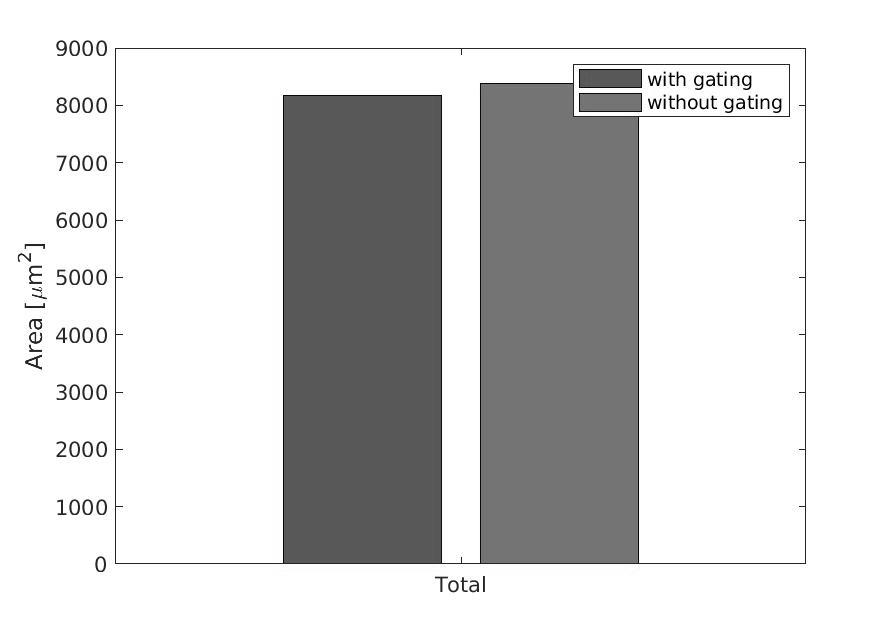
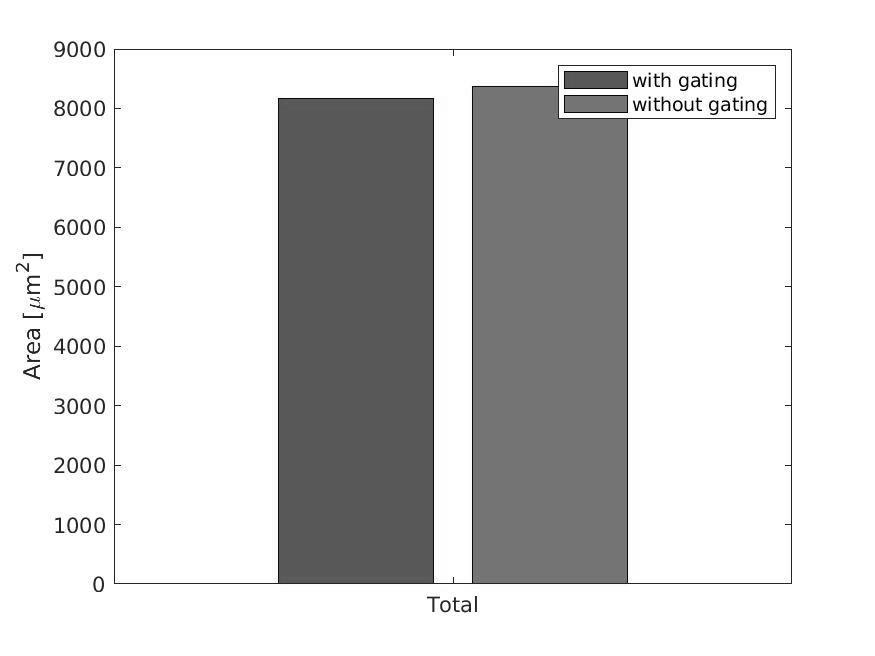
Up

diff --git a/Lab1/matlab/AnalyzeArea.m b/Lab1/matlab/AnalyzeArea.m
@@ -12,16 +12,24 @@ cat = categorical(types(1:3));
 bar(cat, [AreaGating(1:3) AreaNoGating(1:3)])
 legend("with gating", "without gating")
 ylabel("Area [\mum^2]")
-saveas(f, "AreaBar_par_DIRFORM.jpg")
-imwrite(rgb2gray(imread("AreaBar_par_DIRFORM.jpg")), "AreaBar_par_DIRFORM_gray.jpg")
+saveas(f, "./result/AreaGraphs/AreaBar_par_DIRFORM.jpg")
+imwrite(rgb2gray(imread("./result/AreaGraphs/AreaBar_par_DIRFORM.jpg")), "./result/AreaGraphs/AreaBar_par_DIRFORM_gray.jpg")
 
 f = figure;
 cat = categorical(types(5));
 bar(cat, [AreaGating(5) AreaNoGating(5)])
 legend("with gating", "without gating")
 ylabel("Area [\mum^2]")
-saveas(f, "AreaBar_tot_DIRFORM.jpg")
-imwrite(rgb2gray(imread("AreaBar_tot_DIRFORM.jpg")), "AreaBar_tot_DIRFORM_gray.jpg")
+saveas(f, "./result/AreaGraphs/AreaBar_tot_DIRFORM.jpg")
+imwrite(rgb2gray(imread("./result/AreaGraphs/AreaBar_tot_DIRFORM.jpg")), "./result/AreaGraphs/AreaBar_tot_DIRFORM_gray.jpg")
+
+f = figure;
+cat = categorical("Total design area");
+bar(cat, [AreaGating(5) 2886.6])
+legend("post-syntesis", "post-place&route")
+ylabel("Area [\mum^2]")
+saveas(f, "./result/AreaGraphs/AreaBar_comp_DIRFORM.jpg")
+imwrite(rgb2gray(imread("./result/AreaGraphs/AreaBar_comp_DIRFORM.jpg")), "./result/AreaGraphs/AreaBar_comp_DIRFORM_gray.jpg")
 
 [ AreaGating, types ] = readAreaFromSynopsys("../results/syn/synthReport/gating/firUnfoldedNC/elab_area.txt");
 AreaNoGating = readAreaFromSynopsys("../results/syn/synthReport/noGating/firUnfoldedNC/elab_area.txt");
@@ -31,8 +39,8 @@ cat = categorical(types(1:3));
 bar(cat, [AreaGating(1:3) AreaNoGating(1:3)])
 legend("with gating", "without gating")
 ylabel("Area [\mum^2]")
-saveas(f, "AreaBar_par_UNFOLDED.jpg")
-imwrite(rgb2gray(imread("AreaBar_par_UNFOLDED.jpg")), "AreaBar_par_UNFOLDED_gray.jpg")
+saveas(f, "./result/AreaGraphs/AreaBar_par_UNFOLDED.jpg")
+imwrite(rgb2gray(imread("./result/AreaGraphs/AreaBar_par_UNFOLDED.jpg")), "./result/AreaGraphs/AreaBar_par_UNFOLDED_gray.jpg")
 
 
 f = figure;
@@ -40,8 +48,17 @@ cat = categorical(types(5));
 bar(cat, [AreaGating(5) AreaNoGating(5)])
 legend("with gating", "without gating")
 ylabel("Area [\mum^2]")
-saveas(f, "AreaBar_tot_UNFOLDED.jpg")
-imwrite(rgb2gray(imread("AreaBar_tot_UNFOLDED.jpg")), "AreaBar_tot_UNFOLDED_gray.jpg")
+saveas(f, "./result/AreaGraphs/AreaBar_tot_UNFOLDED.jpg")
+imwrite(rgb2gray(imread("./result/AreaGraphs/AreaBar_tot_UNFOLDED.jpg")), "./result/AreaGraphs/AreaBar_tot_UNFOLDED_gray.jpg")
+
+f = figure;
+cat = categorical("Total design area");
+bar(cat, [AreaGating(5) 8087.5])
+legend("post-syntesis", "post-place&route")
+ylabel("Area [\mum^2]")
+saveas(f, "./result/AreaGraphs/AreaBar_comp_UNF.jpg")
+imwrite(rgb2gray(imread("./result/AreaGraphs/AreaBar_comp_UNF.jpg")), "./result/AreaGraphs/AreaBar_comp_UNF_gray.jpg")
+
 
 [ AreaGating, types ] = readAreaFromSynopsys("../results/syn/synthReport/gating/firUnfoldedPipedNC/elab_area.txt");
 AreaNoGating = readAreaFromSynopsys("../results/syn/synthReport/noGating/firUnfoldedPipedNC/elab_area.txt");
@@ -51,13 +68,21 @@ cat = categorical(types(1:3));
 bar(cat, [AreaGating(1:3) AreaNoGating(1:3)])
 legend("with gating", "without gating")
 ylabel("Area [\mum^2]")
-saveas(f, "AreaBar_par_PIPED.jpg")
-imwrite(rgb2gray(imread("AreaBar_par_PIPED.jpg")), "AreaBar_par_PIPED_gray.jpg")
+saveas(f, "./result/AreaGraphs/AreaBar_par_PIPED.jpg")
+imwrite(rgb2gray(imread("./result/AreaGraphs/AreaBar_par_PIPED.jpg")), "./result/AreaGraphs/AreaBar_par_PIPED_gray.jpg")
 
 f = figure;
 cat = categorical(types(5));
 bar(cat, [AreaGating(5) AreaNoGating(5)])
 legend("with gating", "without gating")
 ylabel("Area [\mum^2]")
-saveas(f, "AreaBar_tot_PIPED.jpg")
-imwrite(rgb2gray(imread("AreaBar_tot_PIPED.jpg")), "AreaBar_tot_PIPED_gray.jpg")
+saveas(f, "./result/AreaGraphs/AreaBar_tot_PIPED.jpg")
+imwrite(rgb2gray(imread("./result/AreaGraphs/AreaBar_tot_PIPED.jpg")), "./result/AreaGraphs/AreaBar_tot_PIPED_gray.jpg")
+
+f = figure;
+cat = categorical("Total design area");
+bar(cat, [AreaGating(5) 9364.3])
+legend("post-syntesis", "post-place&route")
+ylabel("Area [\mum^2]")
+saveas(f, "./result/AreaGraphs/AreaBar_comp_PIPE.jpg")
+imwrite(rgb2gray(imread("./result/AreaGraphs/AreaBar_comp_PIPE.jpg")), "./result/AreaGraphs/AreaBar_comp_PIPE_gray.jpg")

diff --git a/Lab1/matlab/AnalyzePower.m b/Lab1/matlab/AnalyzePower.m
@@ -24,3 +24,99 @@ legend("with gating", "without gating")
 ylabel("Power [\muW]")
 saveas(f, "./result/powerGraphs/power_TOT_DIRFORM.jpg")
 imwrite(rgb2gray(imread("./result/powerGraphs/power_TOT_DIRFORM.jpg")), "./result/powerGraphs/power_TOT_DIRFORM_gray.jpg")
+
+powerSYN = PowerGating(5)/1000;
+powerPR = 0.2814 ;
+
+rate = 1 - powerSYN/powerPR
+
+f = figure;
+cat = categorical("Total power");
+bar(cat, [powerSYN*1000 powerPR*1000])
+legend("post-syntesis", "post-place&route")
+ylabel("Power [\muW]")
+saveas(f, "./result/powerGraphs/power_conf_DIRFORM.jpg")
+imwrite(rgb2gray(imread("./result/powerGraphs/power_conf_DIRFORM.jpg")), "./result/powerGraphs/power_conf_DIRFORM_gray.jpg")
+
+[PowerGating, types] = readPowerFromSynopsys("../results/syn/synthReportAfterBack/gating/firUnfoldedNC/elab_power.txt");
+PowerNoGating = readPowerFromSynopsys("../results/syn/synthReportAfterBack/noGating/firUnfoldedNC/elab_power.txt");
+
+
+rate = 1 - PowerGating(5)/PowerNoGating(5)
+
+f = figure;
+cat = categorical(types(1:4));
+bar(cat, [PowerGating(1:4) PowerNoGating(1:4)])
+legend("with gating", "without gating")
+ylabel("Power [\muW]")
+saveas(f, "./result/powerGraphs/power_UNFOLDED.jpg")
+imwrite(rgb2gray(imread("./result/powerGraphs/power_UNFOLDED.jpg")), "./result/powerGraphs/power_UNFOLDED_gray.jpg")
+
+f = figure;
+cat = categorical(types(5));
+bar(cat, [PowerGating(5) PowerNoGating(5)])
+legend("with gating", "without gating")
+ylabel("Power [\muW]")
+saveas(f, "./result/powerGraphs/power_TOT_UNFOLDED.jpg")
+imwrite(rgb2gray(imread("./result/powerGraphs/power_TOT_UNFOLDED.jpg")), "./result/powerGraphs/power_TOT_UNFOLDED_gray.jpg")
+
+powerSYN = PowerGating(5)/1000;
+powerPR = 0.42141670;
+
+rate = 1 - powerSYN/powerPR
+
+f = figure;
+cat = categorical("Total power");
+bar(cat, [powerSYN*1000 powerPR*1000])
+legend("post-syntesis", "post-place&route")
+ylabel("Power [\muW]")
+saveas(f, "./result/powerGraphs/power_conf_UNFOLDED.jpg")
+imwrite(rgb2gray(imread("./result/powerGraphs/power_conf_UNFOLDED.jpg")), "./result/powerGraphs/power_conf_UNFOLDED_gray.jpg")
+
+
+
+
+
+
+
+
+
+[PowerGating, types] = readPowerFromSynopsys("../results/syn/synthReportAfterBack/gating/firUnfoldedPipedNC/elab_power.txt");
+PowerNoGating = readPowerFromSynopsys("../results/syn/synthReportAfterBack/noGating/firUnfoldedPipedNC/elab_power.txt");
+
+
+rate = 1 - PowerGating(5)/PowerNoGating(5)
+
+f = figure;
+cat = categorical(types(1:4));
+bar(cat, [PowerGating(1:4) PowerNoGating(1:4)])
+legend("with gating", "without gating")
+ylabel("Power [\muW]")
+saveas(f, "./result/powerGraphs/power_PIPED.jpg")
+imwrite(rgb2gray(imread("./result/powerGraphs/power_PIPED.jpg")), "./result/powerGraphs/power_PIPED_gray.jpg")
+
+f = figure;
+cat = categorical(types(5));
+bar(cat, [PowerGating(5) PowerNoGating(5)])
+legend("with gating", "without gating")
+ylabel("Power [\muW]")
+saveas(f, "./result/powerGraphs/power_TOT_PIPED.jpg")
+imwrite(rgb2gray(imread("./result/powerGraphs/power_TOT_PIPED.jpg")), "./result/powerGraphs/power_TOT_PIPED_gray.jpg")
+
+powerSYN = PowerGating(5)/1000;
+powerPR = 0.43246513;
+
+rate = 1 - powerSYN/powerPR
+
+f = figure;
+cat = categorical("Total power");
+bar(cat, [powerSYN*1000 powerPR*1000])
+legend("post-syntesis", "post-place&route")
+ylabel("Power [\muW]")
+saveas(f, "./result/powerGraphs/power_conf_PIPED.jpg")
+imwrite(rgb2gray(imread("./result/powerGraphs/power_conf_PIPED.jpg")), "./result/powerGraphs/power_conf_PIPED_gray.jpg")
+
+
+
+
+

diff --git a/Lab1/matlab/allPowerTogheter.m b/Lab1/matlab/allPowerTogheter.m
@@ -1,0 +1,58 @@
+clear variables
+close all
+clc
+
+[PowerGatingDIRSYN, typesDIRSYN] = readPowerFromSynopsys("../results/syn/synthReportAfterBack/gating/firNC/elab_power.txt");
+[PowerGatingUNFSYN, typesUNFSYN] = readPowerFromSynopsys("../results/syn/synthReportAfterBack/gating/firUnfoldedNC/elab_power.txt");
+[PowerGatingPIPSYN, typesPIPSYN] = readPowerFromSynopsys("../results/syn/synthReportAfterBack/gating/firUnfoldedPipedNC/elab_power.txt");
+
+[PowerGatingDIRPR, typesDIRPR] = readPowerFromInnovus("../results/innovus/DirectForm/powerAnal/elab_power.txt");
+[PowerGatingUNFPR, typesUNFPR] = readPowerFromInnovus("../results/innovus/Unfolded/PowerAnal/elab_Power_report.txt");
+[PowerGatingPIPPR, typesPIPPR] = readPowerFromInnovus("../results/innovus/UnfoldedPiped/PowerAnalysis/elab_power_report.txt");
+
+PowerGatingDIRPR = PowerGatingDIRPR.*1000;
+PowerGatingUNFPR = PowerGatingUNFPR.*1000;
+PowerGatingPIPPR = PowerGatingPIPPR.*1000;
+powerPR = [PowerGatingDIRPR(4); PowerGatingUNFPR(4); PowerGatingPIPPR(4)];
+powerSYN = [PowerGatingDIRSYN(5); PowerGatingUNFSYN(5); PowerGatingPIPSYN(5)];
+
+f = figure;
+cat = categorical(["Direct form", "Unfolded", "Piped"]);
+bar(cat, [powerSYN powerPR])
+legend("post-syntesis", "post-place&route",'Location','northwest')
+ylabel("Total ower [\muW]")
+saveas(f, "./result/powerGraphs/power_conf.jpg")
+imwrite(rgb2gray(imread("./result/powerGraphs/power_conf.jpg")), "./result/powerGraphs/power_conf_gray.jpg")
+
+powerINTPR = [PowerGatingDIRPR(1) PowerGatingUNFPR(1) PowerGatingPIPPR(1)]';
+powerINTSYN = [PowerGatingDIRSYN(1) PowerGatingUNFSYN(1) PowerGatingPIPSYN(1)]';
+
+f = figure;
+cat = categorical(["Direct form", "Unfolded", "Piped"]);
+bar(cat, [powerINTSYN powerINTPR])
+legend("post-syntesis", "post-place&route",'Location','northwest')
+ylabel("Internal power [\muW]")
+saveas(f, "./result/powerGraphs/power_conf_INT.jpg")
+imwrite(rgb2gray(imread("./result/powerGraphs/power_conf_INT.jpg")), "./result/powerGraphs/power_conf_INT_gray.jpg")
+
+powerSWIPR = [PowerGatingDIRPR(2) PowerGatingUNFPR(2) PowerGatingPIPPR(2)]';
+powerSWISYN = [PowerGatingDIRSYN(2) PowerGatingUNFSYN(2) PowerGatingPIPSYN(2)]';
+
+f = figure;
+cat = categorical(["Direct form", "Unfolded", "Piped"]);
+bar(cat, [powerSWISYN powerSWIPR])
+legend("post-syntesis", "post-place&route",'Location','northwest')
+ylabel("Switching power [\muW]")
+saveas(f, "./result/powerGraphs/power_conf_INT.jpg")
+imwrite(rgb2gray(imread("./result/powerGraphs/power_conf_INT.jpg")), "./result/powerGraphs/power_conf_INT_gray.jpg")
+
+powerLEAKPR = [PowerGatingDIRPR(3) PowerGatingUNFPR(3) PowerGatingPIPPR(3)]';
+powerLEAKSYN = [PowerGatingDIRSYN(4) PowerGatingUNFSYN(4) PowerGatingPIPSYN(4)]';
+
+f = figure;
+cat = categorical(["Direct form", "Unfolded", "Piped"]);
+bar(cat, [powerLEAKSYN powerLEAKPR])
+legend("post-syntesis", "post-place&route",'Location','northwest')
+ylabel("Leakage power [\muW]")
+saveas(f, "./result/powerGraphs/power_conf_LEAK.jpg")
+imwrite(rgb2gray(imread("./result/powerGraphs/power_conf_LEAK.jpg")), "./result/powerGraphs/power_conf_LEAK_gray.jpg")

diff --git a/Lab1/matlab/AnalyzeTime.m b/Lab1/matlab/AnalyzeTime.m
@@ -1,0 +1,37 @@
+slackPR_DIR = 8.383;
+slackSYN_DIR = 7.99;
+
+f = figure;
+cat = categorical("Worst slack");
+bar(cat, [slackSYN_DIR slackPR_DIR])
+legend("post-syntesis", "post-place&route")
+ylabel("Time [ns]")
+saveas(f, "./result/timeGraph/slack_DIRFORM.jpg")
+imwrite(rgb2gray(imread("./result/timeGraph/slack_DIRFORM.jpg")), "./result/timeGraph/slack_DIRFORM_gray.jpg")
+
+
+slackPR_UNF = 8.715;
+slackSYN_UNF =  8.28;
+
+f = figure;
+cat = categorical("Worst slack");
+bar(cat, [slackSYN_UNF slackPR_UNF])
+legend("post-syntesis", "post-place&route")
+ylabel("Time [ns]")
+saveas(f, "./result/timeGraph/slack_UNF.jpg")
+imwrite(rgb2gray(imread("./result/timeGraph/slack_UNF.jpg")), "./result/timeGraph/slack_UNF_gray.jpg")
+
+
+
+slackPR_PIP = 6.998;
+slackSYN_PIP =  6.65;
+
+f = figure;
+cat = categorical("Worst slack");
+bar(cat, [slackSYN_PIP slackPR_PIP])
+legend("post-syntesis", "post-place&route")
+ylabel("Time [ns]")
+saveas(f, "./result/timeGraph/slack_PIP.jpg")
+imwrite(rgb2gray(imread("./result/timeGraph/slack_PIP.jpg")), "./result/timeGraph/slack_PIP_gray.jpg")
+
+

diff --git a/Lab1/matlab/allAreaTogheter.m b/Lab1/matlab/allAreaTogheter.m
@@ -1,0 +1,23 @@
+close all
+clear all
+clc
+
+[ AreaSYNDIR, types ] = readAreaFromSynopsys("../results/syn/synthReport/gating/firNC/elab_area.txt");
+[ AreaSYNUNF, types ] = readAreaFromSynopsys("../results/syn/synthReport/gating/firUnfoldedNC/elab_area.txt");
+[ AreaSYNPIP, types ] = readAreaFromSynopsys("../results/syn/synthReport/gating/firUnfoldedPipedNC/elab_area.txt");
+
+AreaPRDIR = 2886.6;
+AreaPRUNF = 8087.5;
+AreaPRPIP = 9364.3;
+
+AreaSYN = [AreaSYNDIR(5) AreaSYNUNF(5) AreaSYNPIP(5)]';
+AreaPR = [AreaPRDIR AreaPRUNF AreaPRPIP]';
+
+
+f = figure;
+cat = categorical(["Direct form", "Unfolded", "Pieped"]);
+bar(cat, [AreaSYN AreaPR])
+legend("post-syntesis", "post-place&route", 'Location', 'northwest')
+ylabel("Area [\mum^2]")
+saveas(f, "./result/AreaGraphs/AreaBar_comp.jpg")
+imwrite(rgb2gray(imread("./result/AreaGraphs/AreaBar_comp.jpg")), "./result/AreaGraphs/AreaBar_comp_gray.jpg")

diff --git a/Lab1/util/readPowerFromInnovus.py b/Lab1/util/readPowerFromInnovus.py
@@ -1,0 +1,19 @@
+import sys
+from pathlib import Path
+
+for inputPath in sys.argv[1:]:
+    powerFileName = Path(inputPath).name
+    fPower = open(inputPath, 'r')
+    outputFileName = 'elab_' + powerFileName
+    outputPath = Path(inputPath).parent / outputFileName
+    fOut = open(str(outputPath), 'w')
+    inputLines = fPower.readlines()
+    for line in inputLines:
+        ls = line.split(' ')
+        if 'Total Internal Power' in line or 'Total Switching Power' in line or 'Total Leakage Power' in line or 'Total Power:' in line:
+            try:
+                power = ls[ls.index('\t')-1]
+            except:
+                power = ls[-2]
+            fOut.write(power + "\n")
+            print(power)

diff --git a/Lab1/matlab/allPeriodTogheter.m b/Lab1/matlab/allPeriodTogheter.m
@@ -1,0 +1,22 @@
+close all
+clear variables
+clc
+
+TmaxPR_DIR = 10.553  - 8.383;
+TmaxPR_UNF = 10.939 - 8.715;
+TmaxPR_PIP = 8.755 - 6.998;
+
+TmaxSYN_DIR = 2.56;
+TmaxSYN_UNF = 2.66;
+TmaxSYN_PIP = 2.10;
+
+TmPR = [TmaxPR_DIR; TmaxPR_UNF; TmaxPR_PIP];
+TmSYN = [TmaxSYN_DIR; TmaxSYN_UNF; TmaxSYN_PIP];
+
+f = figure;
+cat = categorical(["Direct form" "Unfolded" "Piped"]);
+bar(cat, [TmSYN TmPR])
+legend("post-syntesis", "post-place&route", "Location", "northwest" )
+ylabel("Time [ns]")
+saveas(f, "./result/timeGraph/per.jpg")
+imwrite(rgb2gray(imread("./result/timeGraph/per.jpg")), "./result/timeGraph/per_gray.jpg")

diff --git a/Lab1/matlab/readPowerFromInnovus.m b/Lab1/matlab/readPowerFromInnovus.m
@@ -1,0 +1,5 @@
+function [Power, typeOfPower] = readPowerFromInnovus(fileName)
+    typeOfPower = ["Total internal power"; "Total switching power"; "Total Leakage power"; "Total power"];
+    Power = importdata(fileName);
+end
+
